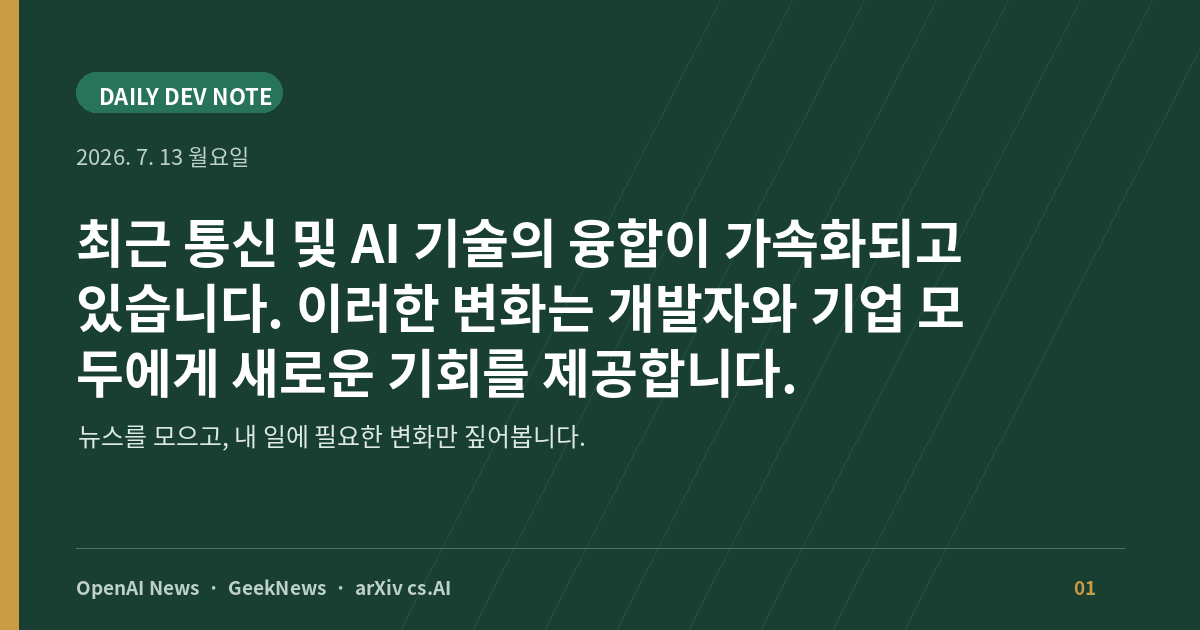
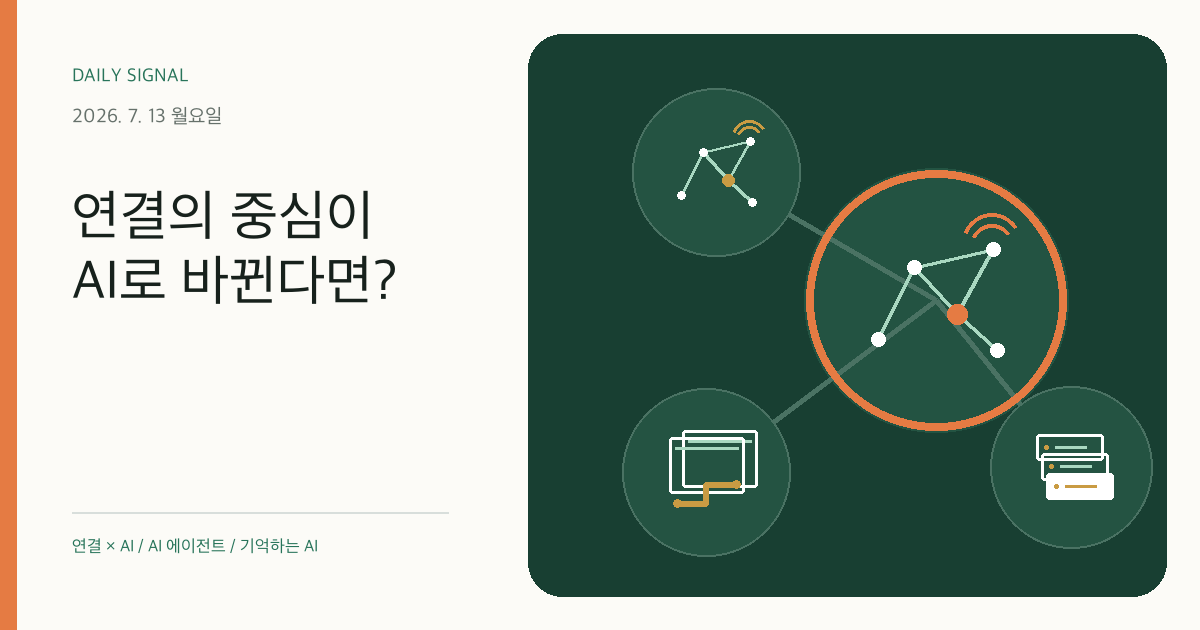
content: refresh latest draft visuals

diff --git a/docs/tistory/2026-07-13.html b/docs/tistory/2026-07-13.html
@@ -12,7 +12,7 @@ slug: 2026-07-13-daily-digest
     <p class="digest-meta-intro" style="margin:14px 0 0;color:#66716b;font-size:14px;line-height:1.7;">본문은 핵심 내용 요약과 학습용 문제로 구성했으며 세부 내용은 각 원문 링크에서 확인하는 것을 권장합니다.</p>
   </section>
 
-  <figure class="digest-cover-figure" style="margin:0 0 34px;"><img class="digest-cover-image" src="https://seung-won-yu.github.io/blog-writing/tistory/assets/2026-07-13/cover.png" alt="2026. 7. 13 오늘의 AI 개발 뉴스 대표 이미지" width="1200" height="630" loading="eager" style="display:block;width:100%;height:auto;border:1px solid #d8dedb;border-radius:4px;background:#f5f6f4;"></figure>
+  <figure class="digest-cover-figure" style="margin:0 0 34px;"><img class="digest-cover-image" src="https://seung-won-yu.github.io/blog-writing/tistory/assets/2026-07-13/cover.png" alt="2026. 7. 13 연결의 중심이 AI로 바뀐다면? 대표 이미지" width="1200" height="630" loading="eager" style="display:block;width:100%;height:auto;border:1px solid #d8dedb;border-radius:4px;background:#f5f6f4;"></figure>
 
   <section class="digest-summary" style="margin:0 0 34px;padding:20px 22px;border-left:4px solid #c99b43;background:#f7f4ec;">
   <h2 style="margin:42px 0 14px;color:#17211c;font-size:22px;line-height:1.35;font-weight:850;margin-top:0;">먼저 보는 핵심</h2>
@@ -28,7 +28,7 @@ slug: 2026-07-13-daily-digest
   <div class="digest-full-content" style="margin:22px 0 0;padding:18px 0 0;border-top:1px solid #e5e8e6;"><h4 style="margin:20px 0 8px;color:#27332d;font-size:16px;line-height:1.5;font-weight:850;">무슨 소식인가</h4><p style="margin:0 0 14px;color:#46534d;font-size:16px;line-height:1.85;">도이치 텔레콤이 OpenAI의 기술을 통해 AI 기반의 통신 서비스로 변화하고 있습니다. 고객 서비스와 직원 업무 흐름, 네트워크 운영을 AI로 개선하고 있으며, 이는 통신 산업의 미래를 재정의할 가능성이 큽니다.</p><h4 style="margin:20px 0 8px;color:#27332d;font-size:16px;line-height:1.5;font-weight:850;">왜 봐야 할까</h4><p style="margin:0 0 14px;color:#46534d;font-size:16px;line-height:1.85;">AI를 활용한 통신 서비스의 변화는 기업들이 고객 경험을 향상시키고 운영 효율성을 높이는 데 중요한 역할을 할 수 있습니다. 이러한 변화는 개발자들에게도 새로운 기술을 배우고 적용할 기회를 제공합니다.</p></div>
   <p class="digest-source-link" style="margin:14px 0 0;"><a href="https://openai.com/index/deutsche-telekom" target="_blank" rel="noopener" style="display:inline-block;margin-top:10px;padding:5px 0;border-bottom:1px solid #28745a;color:#28745a;text-decoration:none;font-size:13px;font-weight:850;">원문 보기</a></p>
 </section>
-<figure class="digest-flow-figure" style="margin:8px 0 36px;"><img class="digest-flow-image" src="https://seung-won-yu.github.io/blog-writing/tistory/assets/2026-07-13/flow.png" alt="2026. 7. 13 오늘의 뉴스 흐름 요약" width="1200" height="675" loading="lazy" style="display:block;width:100%;height:auto;border:1px solid #d8dedb;border-radius:4px;background:#f5f6f4;"></figure>
+<figure class="digest-flow-figure" style="margin:8px 0 36px;"><img class="digest-flow-image" src="https://seung-won-yu.github.io/blog-writing/tistory/assets/2026-07-13/flow.png" alt="2026. 7. 13 오늘의 세 장면: 연결 × AI, AI 에이전트, 기억하는 AI" width="1200" height="675" loading="lazy" style="display:block;width:100%;height:auto;border:1px solid #d8dedb;border-radius:4px;background:#f5f6f4;"></figure>
 <section class="digest-news-card" style="margin:0;padding:30px 0 32px;border-top:1px solid #d8dedb;background:#fff;">
   
   <p class="digest-source" style="display:block;margin:0 0 9px;color:#28745a;font-size:12px;font-weight:850;letter-spacing:.08em;">NEWS 02 · GeekNews</p>